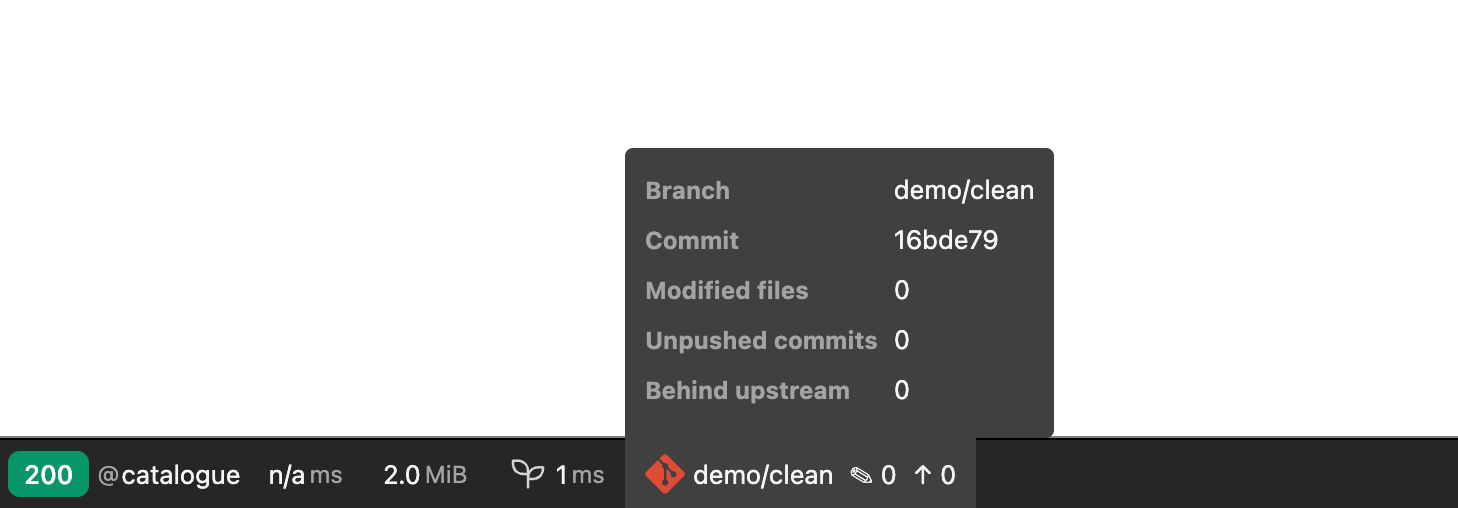
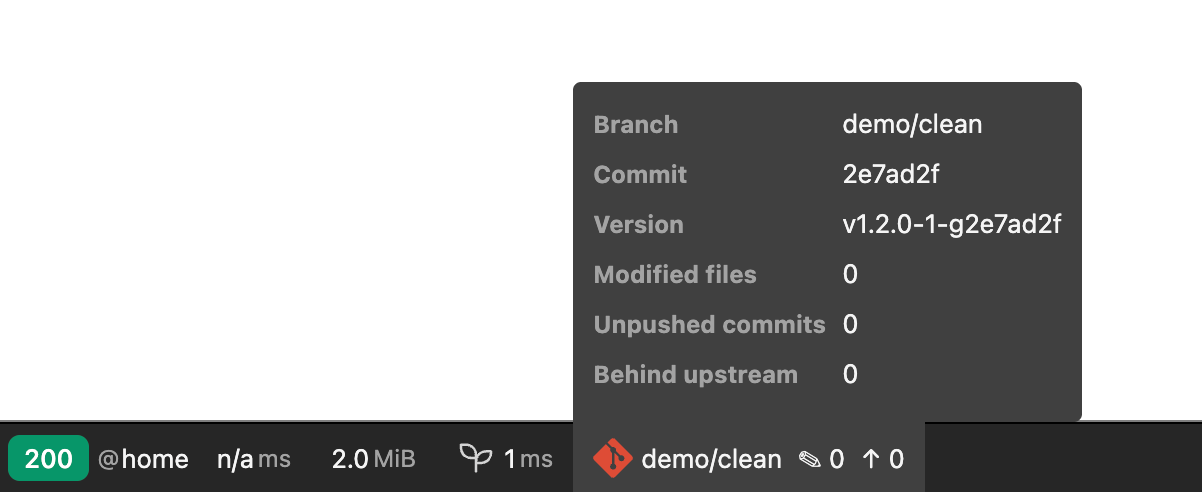
docs: retake every screenshot on 0.5.0, hide the link legend without upstream
- Retake the 16 guide screenshots on 0.5.0 and add new ones for the
  remote links, the Version and Stashes cards, a rebase stopped on a
  conflict and a merge with a conflict; refresh the README images.
- Do not say "Pushed commits link to …" when there is no upstream
  (detached HEAD, no upstream, rebase in progress): nothing is linked
  then.
- Guide captions and timings updated; CHANGELOG entries for 0.5.1.

Changed region(s): [[0.0, 0.1524, 1.0, 1.0]]

diff --git a/tests/Templates/GitTemplateRenderingTest.php b/tests/Templates/GitTemplateRenderingTest.php
@@ -457,6 +457,24 @@ final class GitTemplateRenderingTest extends TestCase
         self::assertStringNotContainsString('Compare on', $html);
     }
 
+    public function testNoLinkAnnouncementWithoutAnUpstream(): void
+    {
+        // Detached HEAD or a branch without upstream: no commit is known to be pushed, so none is linked.
+        $html = $this->render(new GitInfo(
+            'HEAD',
+            'aaaaaaa',
+            false,
+            graphCommits: [
+                new GraphCommit(str_repeat('a', 40), 'aaaaaaa', [], 'work', 'Ada', new \DateTimeImmutable('2026-08-14T10:00:00+00:00'), isHead: true),
+            ],
+            remote: new RemoteRepository(GitProvider::GitHub, 'https://github.com/o/r'),
+            headHash: str_repeat('a', 40),
+        ));
+
+        self::assertStringNotContainsString('Pushed commits link to', $html);
+        self::assertStringNotContainsString('/commit/', $html);
+    }
+
     public function testCompareLinkWhenBehindAndNotAhead(): void
     {
         $html = $this->render($this->linkedInfo(behind: 2));

diff --git a/docs/git-panel.md b/docs/git-panel.md
@@ -37,8 +37,8 @@ The segment shows the branch name followed by counters:
 | ↑ | Commits not pushed yet (`@{u}..HEAD`). Shows `–` when there is no upstream. |
 | ↓ | Commits on the upstream that you do not have, **as of the last fetch**. Only displayed when greater than 0. |
 
-Hovering opens the detail block: branch, short commit, the version and the number of stashes when there are some, and the same three numbers. While an
-operation is in progress the segment turns yellow (red with conflicts) and shows its label, e.g.
+Hovering opens the detail block: branch, short commit, the version and the number of stashes when
+there are some, and the same three numbers. While an operation is in progress the segment turns yellow (red with conflicts) and shows its label, e.g.
 `rebasing 3/7` (see [Operations in progress and conflicts](#operations-in-progress-and-conflicts)).
 
 The toolbar is a quick "am I about to test the right code?" check: wrong branch, forgotten local
@@ -49,7 +49,7 @@ menu carries a `files / unpushed` badge when either number is non-zero.
 
 ![Panel on a clean branch](assets/screens/01-clean-panel.png)
 
-*A clean branch, in sync with its upstream. Three git commands, about 45 ms.*
+*A clean branch, in sync with its upstream, with a reachable tag: six git commands, about 70 ms.*
 
 The panel opens with five cards: **Branch** (or **Detached HEAD**), **Short commit**, **Modified
 files**, **Unpushed commits** and **Behind upstream**. Cards without a meaning in the current state
@@ -149,13 +149,15 @@ When the remote is on a known host, the graph becomes clickable:
 | Hash of a **pushed** commit | The commit page |
 | Upstream badge (`origin/main`) | The branch page on the remote |
 | "Compare on GitHub" in *Unpushed commits* | HEAD against the upstream branch, only when **behind and not ahead** |
-| "GitHub" in the graph legend | The repository |
+| "GitHub" in the graph legend | The repository (shown only with an upstream, since nothing is linked otherwise) |
 
 | Provider | Detected from the host | Commit | Branch | Compare |
 |---|---|---|---|---|
 | GitHub | `github.com` | `/commit/<sha>` | `/tree/<branch>` | `/compare/<sha>...<branch>` |
 | GitLab | `gitlab.com`, or any host containing `gitlab` | `/-/commit/<sha>` | `/-/tree/<branch>` | `/-/compare/<sha>...<branch>` |
 | Bitbucket | `bitbucket.org` | `/commits/<sha>` | `/branch/<branch>` | none (no reliable pattern) |
+
+![Pushed commits, upstream badge and "Compare on GitHub" linked; Version and Stashes cards](assets/screens/11-links-version-stashes-panel.png)
 
 Any other host (Gitea, Azure DevOps, a self-hosted GitHub or Bitbucket Server, a local path…) gets no
 links: URLs are never guessed. Links open in a new tab with `rel="noopener noreferrer"`.
@@ -190,6 +192,8 @@ Everything is computed from local data, with no network access.
 **Version** is `git describe --tags --abbrev=7 HEAD`: the nearest tag reachable from `HEAD`, annotated or
 not. `0.4.0` means `HEAD` is that tag; `0.4.0-3-g2897d71` means 3 commits after it, at commit `2897d71`.
 It is shown as a card and as a toolbar tooltip row.
+
+![Toolbar tooltip with the Version and Stashes rows](assets/screens/11-links-version-stashes-toolbar.png)
 
 `git describe` fails when there is nothing to describe, which would put a red *Failed* row in the list of
 commands on every request of a tag-less repository (common for applications). So the bundle first checks
@@ -228,9 +232,15 @@ conflicts is part of the banner):
 | Revert | Reverting `abc1234` | `git revert --continue` · `git revert --abort` |
 | Bisect | Bisect in progress | `git bisect reset` |
 
+![Rebase stopped at step 2/3 on a conflict: red banner, "Rebasing" and "Conflicts" cards, conflicted file listed first](assets/screens/09-rebase-conflict-panel.png)
+
+![Merge with one conflict and one cleanly merged, staged file](assets/screens/10-merge-conflict-panel.png)
+
 **Toolbar.** The segment is yellow during an operation and red when there are conflicts, shows a
 label (`rebasing 3/7`, `merging`, `am 2/5`, `cherry-picking`, `reverting`, `bisecting`) and a `⚠ N`
 counter for the conflicts; the hover block gets an *Operation* and a *Conflicts* row.
+
+![Toolbar during a rebase with a conflict](assets/screens/09-rebase-conflict-toolbar.png)
 
 **Rebase and detached HEAD.** `HEAD` is detached while a rebase is stopped. Instead of "Detached HEAD",
 the first card (and the toolbar) read **Rebasing** with the branch being rebased. A rebase of a
@@ -312,7 +322,7 @@ corresponding section degrades alone: it is empty and the rest of the panel stay
 
 The last section lists every git command run **for this request**, with its duration and outcome:
 
-![Git commands section, 5 commands](assets/screens/05-diverged-panel.png)
+![Git commands section, 8 commands on a diverged branch](assets/screens/05-diverged-panel.png)
 
 *Commands of the diverged case (see the bottom of the screenshot): status, show, log, diff, graph log.*
 
@@ -400,7 +410,7 @@ Safeguards on every git process:
 - Linked worktrees and submodules (where `.git` is a file) are supported.
 
 **Cost.** 5 to 10 short-lived processes per profiled request, about 10 to 20 ms each on a normal
-repository; in the screenshots, 37 to 71 ms in total. Because this happens after the response, it adds
+repository; in the screenshots, 63 to 88 ms in total. Because this happens after the response, it adds
 no latency to the page itself. It does keep the PHP worker busy a little longer: with PHP-FPM
 (`fastcgi_finish_request`) the client is already released; with servers that do not flush before
 `kernel.terminate`, the response may be held until collection ends.

diff --git a/CHANGELOG.md b/CHANGELOG.md
@@ -7,6 +7,18 @@ and this project adheres to [Semantic Versioning](https://semver.org/spec/v2.0.0
 
 ## [Unreleased]
 
+### Fixed
+
+- The commit graph no longer says "Pushed commits link to GitHub" when there is no upstream (detached
+  HEAD, branch without upstream, rebase in progress): nothing is known to be pushed then, so nothing is
+  linked.
+
+### Changed
+
+- [Git panel guide](https://github.com/julienbohy/symfony-git-profiler-bundle/blob/main/docs/git-panel.md):
+  every screenshot retaken on 0.5.0, and new ones for the remote links, the Version and Stashes cards, a
+  rebase stopped on a conflict and a merge with a conflict. README screenshots refreshed.
+
 ## [0.5.0] - 2026-11-06
 
 ### Added
